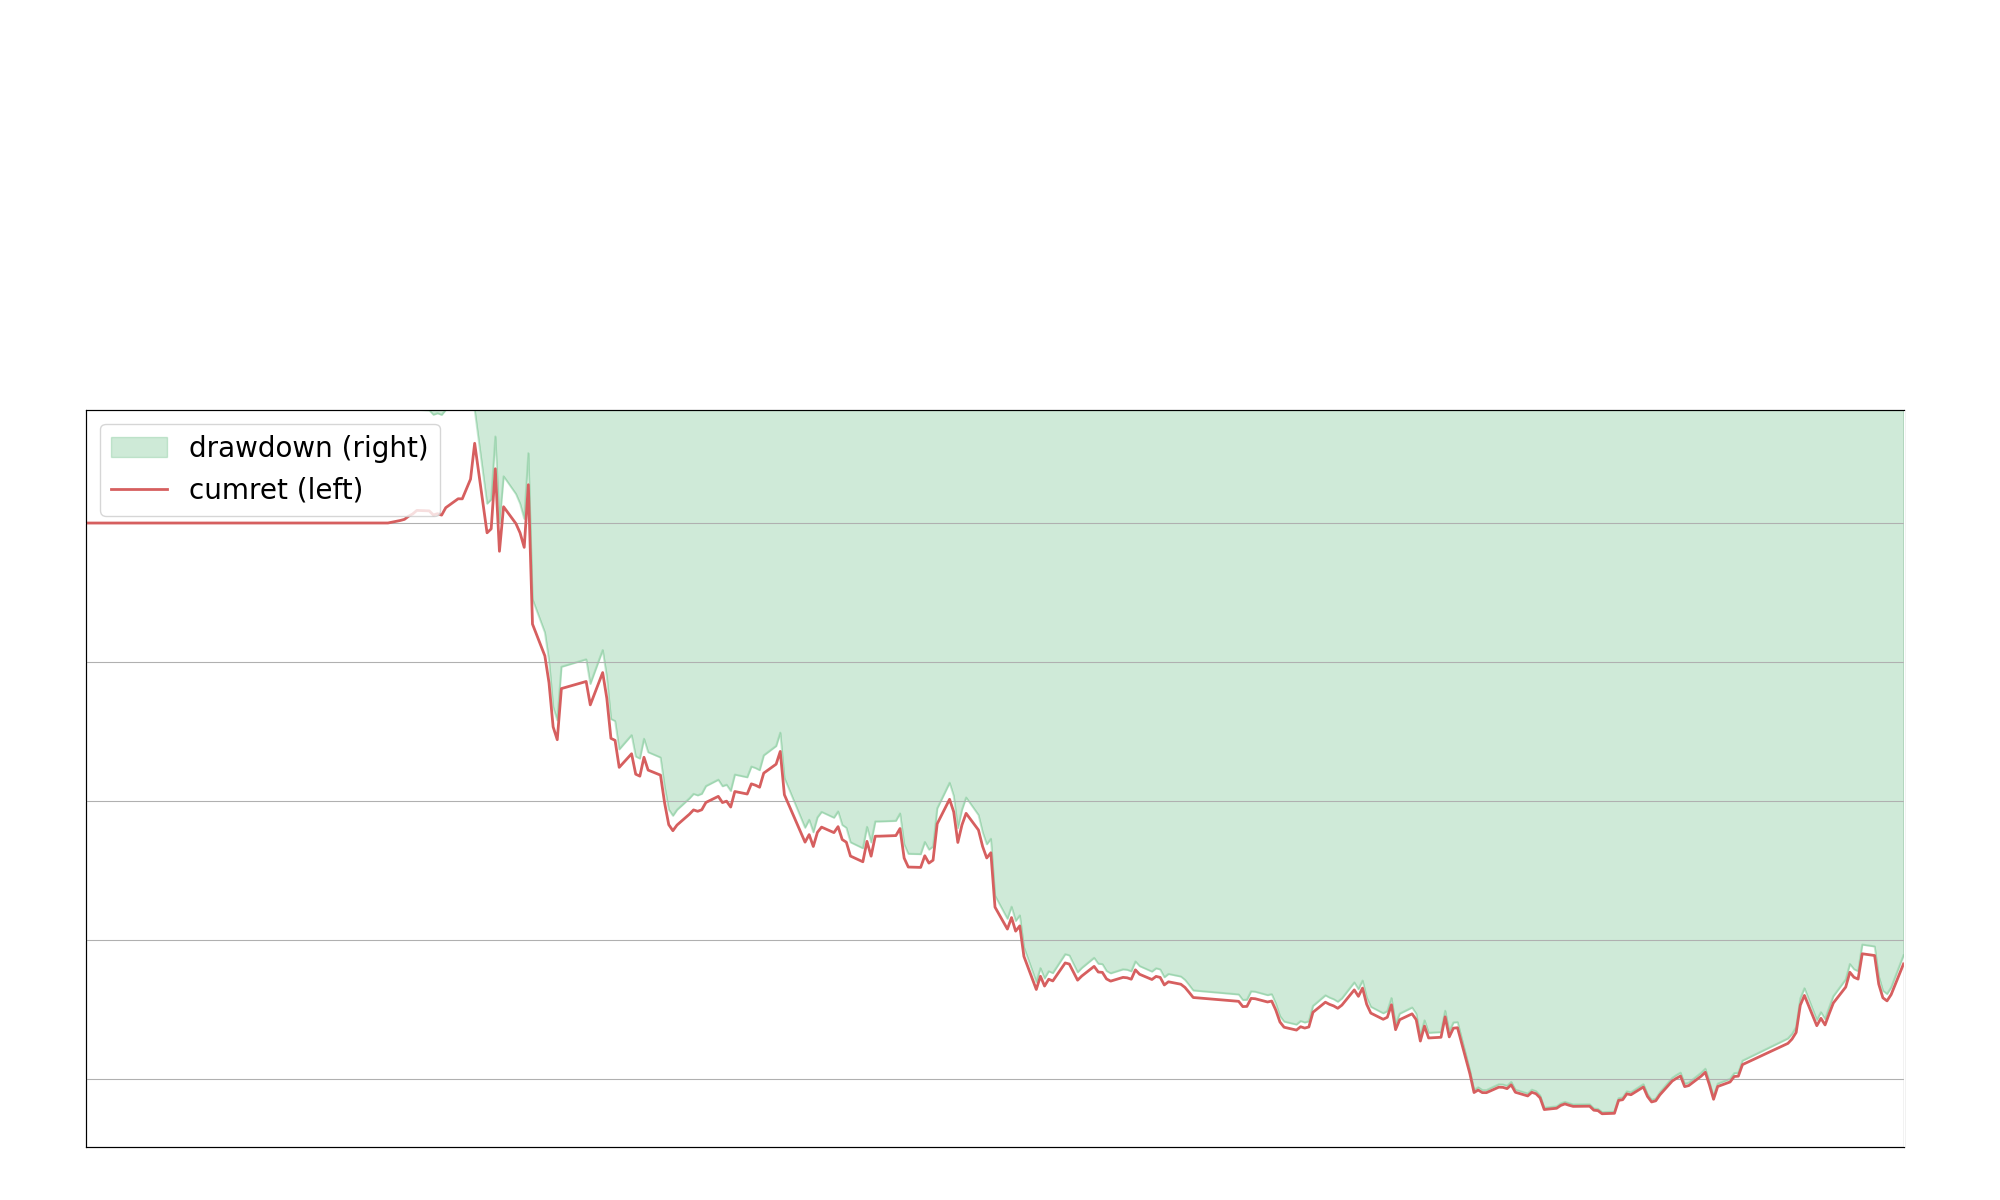
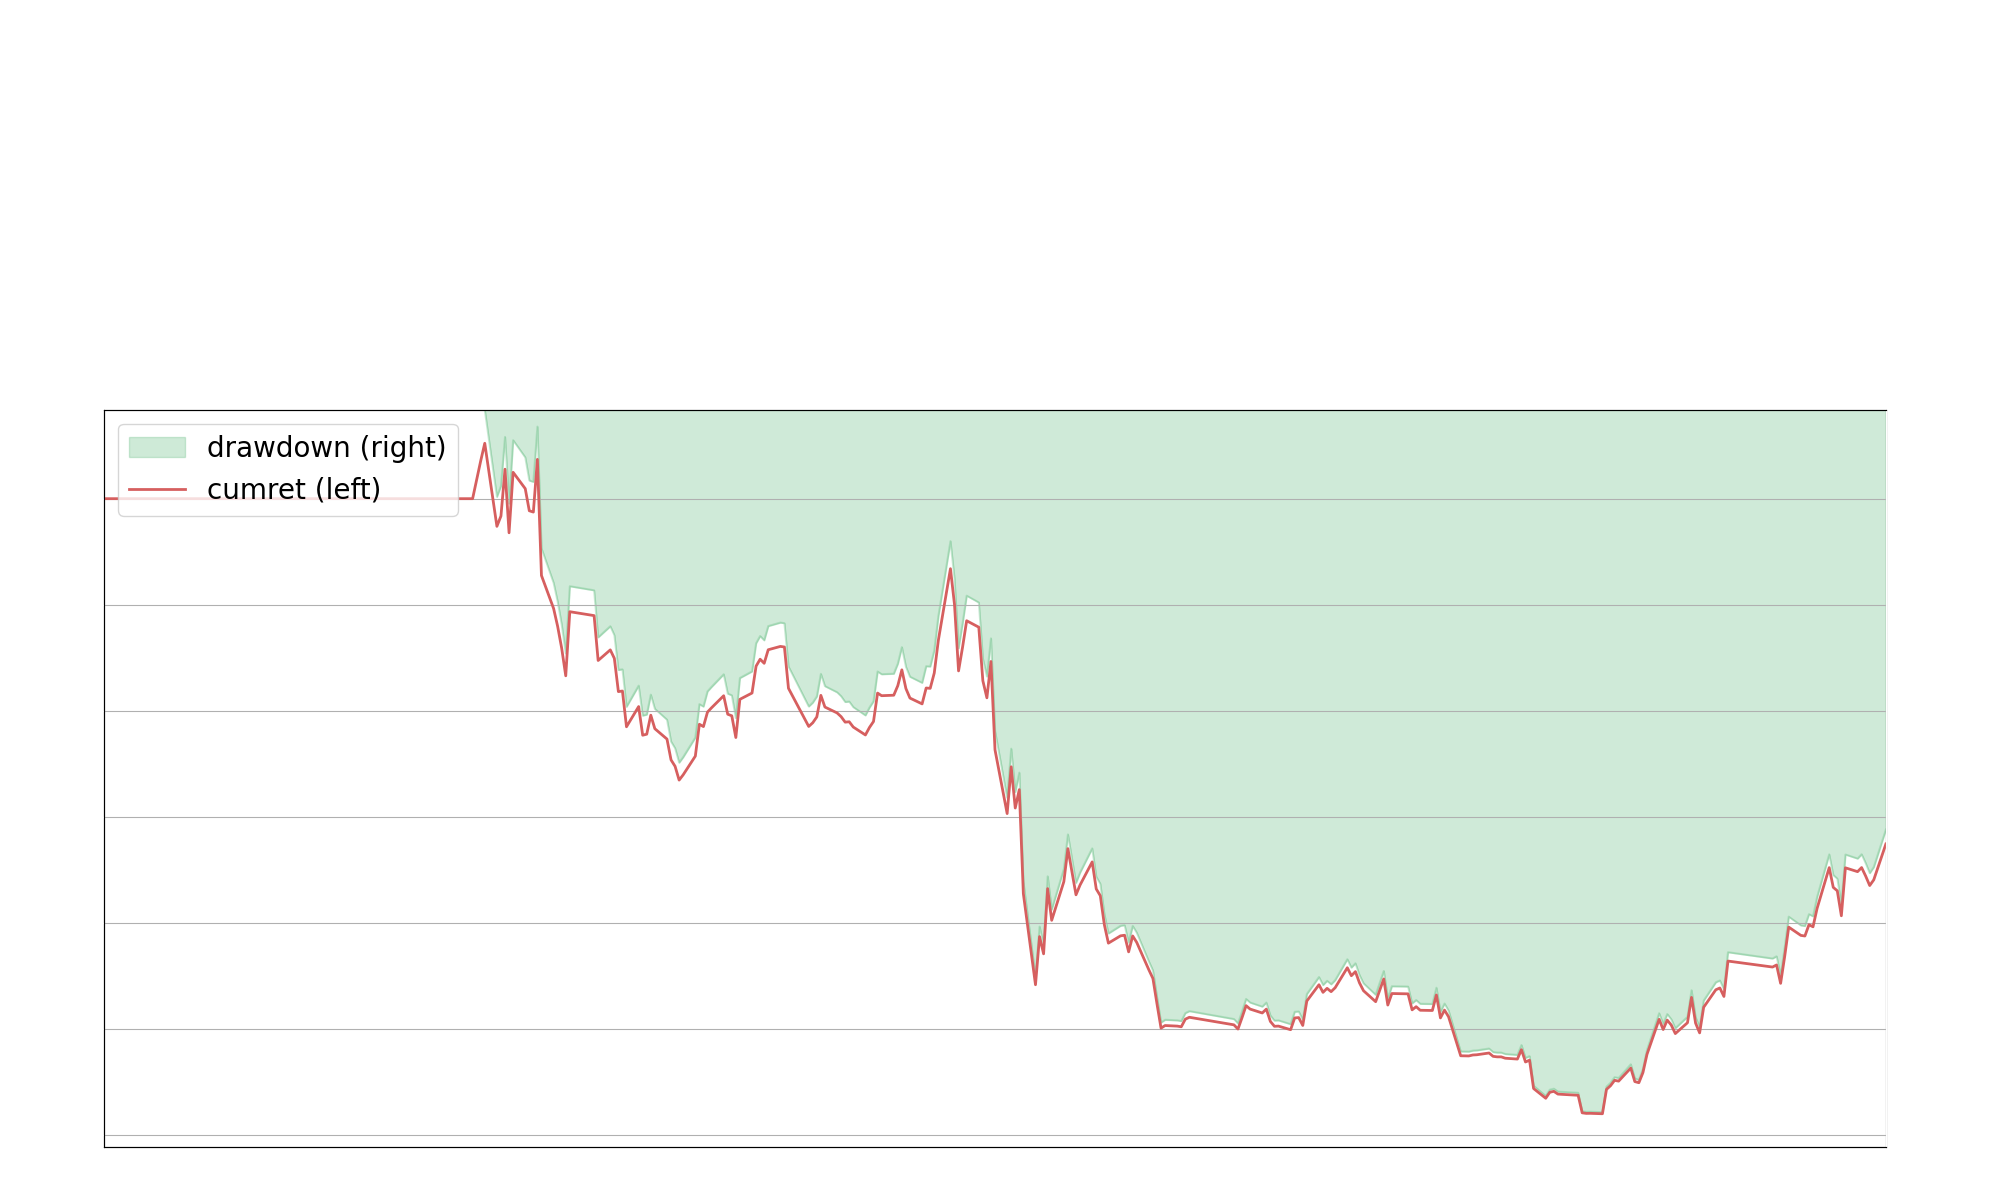
update

diff --git a/finance/Main_cnetf.py b/finance/Main_cnetf.py
@@ -38,11 +38,11 @@ def exec_btstrategy(date):
     # cerebro.addobserver(bt.observers.BuySell)
 
     """ 初始资金100M """
-    cerebro.broker.setcash(2000000.0)
+    cerebro.broker.setcash(1000000.0)
     cerebro.broker.set_coc(True)  # 设置以当日收盘价成交
     """ 每手10股 """
     # cerebro.addsizer(bt.sizers.FixedSize, stake=100)
-    cerebro.addsizer(bt.sizers.PercentSizerInt, percents=0.5)
+    cerebro.addsizer(bt.sizers.PercentSizerInt, percents=2)
     """ 费率千分之一 """
     cerebro.broker.setcommission(commission=0, stocklike=True)
     """ 添加股票当日即历史数据 """

diff --git a/finance/utility/TickerInfo.py b/finance/utility/TickerInfo.py
@@ -246,7 +246,10 @@ class TickerInfo:
         df.sort_values(by=["symbol"], ascending=True, inplace=True)
         if self.market == "cn":
             for index, i in df.iterrows():
-                if "ETF" in str(i["name"]).upper():
+                if (
+                    "ETF" in str(i["name"]).upper()
+                    and float(i["close"]) * float(i["volume"]) * 100 >= 500000000
+                ):
                     tickers.append(i["symbol"])
         return tickers
 
